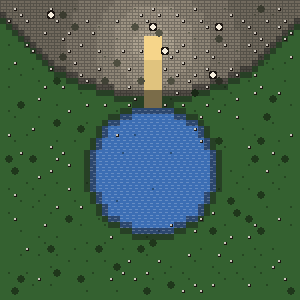
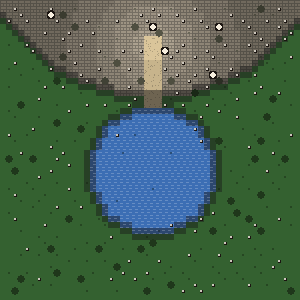
Polish the landing, the result screen and the map's paths
- Step 1: three examples instead of four. The sample map is the first
  example, and its caption quotes that example word for word, so the
  separate "Partir de cet exemple" button goes. The landing grid is now
  form / sample / more, so on a phone the result comes right after the
  form instead of below the options.
- Step 4: one primary action. The retouch button stays a ghost until a
  request is typed.
- Preview: paths are a muted sand with a gravel grain instead of a bright
  yellow bar. The legend has a matching swatch, and the sample image is
  regenerated.
- Zone labels: prompt v1.04 asks for a short GM-facing label in the
  description's language, with accents and no technical terms. The castle
  fixture is cleaned up to match ("Mare au centre de la cour").

Claude-Session: https://claude.ai/code/session_01VCyi5n8g8wBHEssBSmSAeg

Changed region(s): [[0.48, 0.12, 0.54, 0.3]]

diff --git a/internal/server/static/index.html b/internal/server/static/index.html
@@ -84,13 +84,16 @@
 
   .eyebrow{font-size:13px; color:var(--muted); margin:36px 0 12px}
   /* Step 1: the form, and beside it an example of what comes out. */
-  .landing{display:grid; grid-template-columns:minmax(0,1fr) 300px; gap:40px; align-items:start}
+  .landing{display:grid; grid-template-columns:minmax(0,1fr) 300px; gap:0 40px; align-items:start;
+    grid-template-areas:"form sample" "more sample"}
+  .landing-form{grid-area:form} .landing-more{grid-area:more} .sample{grid-area:sample}
   .sample{margin:26px 0 0}
   .sample img{display:block; width:100%; height:auto; image-rendering:pixelated; border:1px solid var(--control);
     outline:1px solid var(--border); outline-offset:4px}
   .sample figcaption{margin-top:14px; font-size:14px; color:var(--muted)}
   .sample figcaption b{display:block; color:var(--ink); font-weight:600; margin-bottom:2px}
-  @media(max-width:860px){ .landing{grid-template-columns:1fr; gap:8px} .sample{max-width:300px} }
+  /* On a phone the result comes right after the form, before the options. */
+  @media(max-width:860px){ .landing{grid-template-columns:1fr; grid-template-areas:"form" "sample" "more"} .sample{max-width:300px} }
   .chips{display:flex; flex-wrap:wrap; gap:8px}
   .chip{background:var(--panel); border:1px solid var(--border); color:var(--ink); border-radius:999px;
     padding:8px 14px; cursor:pointer; text-align:left; font-size:14px;
@@ -155,6 +158,7 @@
     background-size:8px 8px}
   .swatch.waves{background-image:repeating-linear-gradient(0deg, transparent 0 4px, rgba(255,255,255,.3) 4px 5px)}
   .swatch.hatch{background-image:repeating-linear-gradient(45deg, rgba(25,25,25,.35) 0 1px, transparent 1px 4px)}
+  .swatch.gravel{background-image:radial-gradient(rgba(25,25,25,.4) 0.8px, transparent 1.2px); background-size:5px 4px; background-position:1px 1px}
   .legend small{color:var(--muted); font-size:13px; margin-left:auto; font-variant-numeric:tabular-nums}
   .piece-label{position:absolute; margin:4px 0 0 4px; padding:0 5px; border-radius:4px; background:rgba(27,21,17,.8);
     color:var(--ink); font-size:11px; font-weight:600; line-height:18px}
@@ -253,7 +257,7 @@
     <p class="lead">Racontez la scène comme à votre table : le décor, l’ambiance, les éléments clés. Le Cartographe prépare un prompt pour votre assistant IA, puis transforme sa réponse en carte TaleSpire.</p>
 
     <div class="landing">
-      <div class="landing-main">
+      <div class="landing-form">
       <label for="desc">Votre scène</label>
       <textarea id="desc" aria-describedby="descErr" aria-keyshortcuts="Control+Enter Meta+Enter"
         placeholder="Ex. Une cour de château en ruines, une mare au sud, des vestiges au nord…"></textarea>
@@ -266,11 +270,12 @@
       </div>
       <p class="engine" id="engineStatus" role="status" hidden><span id="engineText">Chargement du moteur de génération…</span><progress id="engineBar" max="1" value="0"></progress></p>
       <p class="note"><button class="link" id="pasteDirect">Vous avez déjà la réponse de l’IA ? Collez-la directement</button></p>
+      </div>
 
+      <div class="landing-more">
       <p class="eyebrow" id="examplesLabel">Pas d’idée ? Partez d’un exemple :</p>
       <div class="chips" id="examples" role="group" aria-labelledby="examplesLabel">
-        <button class="chip">Une cour de château en ruines, une mare au sud, des vestiges au nord.</button>
-        <button class="chip">Une clairière de forêt tempérée avec un étang paisible et un chemin de pierre.</button>
+        <button class="chip">Une cour de château en ruines, une mare en son centre, des vestiges au nord.</button>
         <button class="chip">Un désert aride avec des dunes, une oasis cachée et des ruines antiques.</button>
         <button class="chip">Un marécage brumeux avec des huttes sur pilotis et un autel oublié.</button>
       </div>
@@ -321,8 +326,7 @@
       <figure class="sample">
         <img src="/static/exemple-carte.png" width="300" height="300"
           alt="Exemple de carte vue du dessus : une cour herbeuse semée d’arbres et de rochers, une mare ronde en son centre, des ruines au nord reliées par un chemin.">
-        <figcaption><b>Exemple de résultat</b>« Une cour de château en ruines, une mare en son centre, des vestiges au nord. »
-          <button class="link" id="trySample">Partir de cet exemple</button></figcaption>
+        <figcaption><b>Exemple de résultat</b>Ce que donne le premier exemple : «&nbsp;Une cour de château en ruines, une mare en son centre, des vestiges au nord.&nbsp;»</figcaption>
       </figure>
     </div>
   </section>
@@ -426,7 +430,7 @@
       <label for="retouchText" class="sr-only">Changement souhaité</label>
       <textarea id="retouchText" placeholder="Ex. déplace la mare plus au sud, ajoute des arbres morts autour des ruines"></textarea>
       <div class="actions">
-        <button class="primary" id="retouchBtn">Copier la demande pour l’IA</button>
+        <button class="ghost" id="retouchBtn">Copier la demande pour l’IA</button>
         <button class="ghost" id="retouchNext" hidden>J’ai la nouvelle réponse →</button>
       </div>
       <p class="note" id="retouchNote" role="status" aria-live="polite"></p>
@@ -610,11 +614,7 @@ async function preparePrompt(){
 $('genPrompt').onclick = preparePrompt;
 onCtrlEnter($('desc'), preparePrompt);
 $('pasteDirect').onclick = () => setStep(3);
-$('trySample').onclick = () => {
-  $('desc').value = 'Une cour de château en ruines, une mare en son centre, des vestiges au nord.';
-  state.desc = $('desc').value; save(); showDescErr('');
-  $('desc').focus();
-};
+
 
 // Step 2: one obvious action, copy; the prompt itself stays folded away.
 function renderPrompt(){
@@ -970,8 +970,12 @@ function retouchRequest(change){
   return 'Voici la carte actuelle du Cartographe :\n\n```json\n' + JSON.stringify(result.ir) + '\n```\n\n'
     + `Modifiez-la seulement ainsi : « ${change} ». Gardez tout le reste identique, respectez les mêmes règles que pour la carte d’origine, et renvoyez le JSON complet de la carte, sans autre texte.`;
 }
+// Copying the map stays the one primary action on step 4; the retouch button
+// only takes the accent once there is a request to send.
+function updateRetouchButton(){ $('retouchBtn').className = $('retouchText').value.trim() ? 'primary' : 'ghost'; }
+$('retouchText').addEventListener('input', updateRetouchButton);
 function resetRetouch(){
-  $('retouchText').value = ''; $('retouchNote').textContent = '';
+  $('retouchText').value = ''; $('retouchNote').textContent = ''; updateRetouchButton();
   $('retouchNext').hidden = true; $('retouchFallback').hidden = true;
 }
 function updateRetouchMode(){

diff --git a/internal/preview/preview.go b/internal/preview/preview.go
@@ -22,7 +22,7 @@ import (
 // not listed fall back to fallbackRelief.
 var reliefPalette = map[string]color.RGBA{
 	"water":       {60, 110, 180, 255},
-	"base_ground": {214, 186, 120, 255}, // paths: a sand clearly lighter than stone
+	"base_ground": {190, 172, 134, 255}, // paths: a muted sand, lighter than stone, with gravel
 	"ground":      {70, 130, 65, 255},
 	"mountain":    {125, 120, 118, 255},
 	"ruins":       {150, 140, 125, 255},
@@ -31,7 +31,7 @@ var reliefPalette = map[string]color.RGBA{
 // texturedReliefs are told apart by pattern as well as colour, so the map
 // never relies on hue alone (ruins and mountain are close in value once
 // height-shaded, water and ground in luminance): the legend reports it.
-var texturedReliefs = map[string]string{"ruins": "masonry", "water": "waves", "mountain": "hatch"}
+var texturedReliefs = map[string]string{"ruins": "masonry", "water": "waves", "mountain": "hatch", "base_ground": "gravel"}
 
 var (
 	boundaryColor  = color.RGBA{25, 25, 25, 255}
@@ -53,7 +53,7 @@ var reliefOrder = []string{"water", "ground", "base_ground", "mountain", "ruins"
 // Key is a relief key, "other" (a relief outside the palette), "building",
 // "tree", "stone", "misc", "boundary" or "poi"; the UI translates it. Color is
 // the unshaded "#rrggbb"; Pattern names a texture drawn over it ("masonry",
-// "waves", "hatch") or a symbol ("tree", "stone", "dot", "line", "pin").
+// "waves", "hatch", "gravel") or a symbol ("tree", "stone", "dot", "line", "pin").
 // Count is how many are drawn, for the scatter and points of interest.
 type LegendEntry struct {
 	Key     string `json:"key"`
@@ -161,6 +161,8 @@ func Render(doc *ir.IR, mask *spatial.Mask, field *generator.HeightField, opts O
 					waves(img, x, y, scale, blend(base, white, 0.22))
 				case "hatch":
 					hatch(img, x, y, scale, blend(base, boundaryColor, 0.18))
+				case "gravel":
+					gravel(img, x, y, scale, blend(base, boundaryColor, 0.22))
 				}
 			}
 		}
@@ -228,6 +230,18 @@ func hatch(img *image.RGBA, tx, ty, scale int, c color.RGBA) {
 				img.SetRGBA(x0+i, y0+j, c)
 			}
 		}
+	}
+}
+
+// gravel sprinkles a few pebbles over a path tile, at spots hashed from the
+// tile so the grain looks loose rather than gridded, yet stays reproducible.
+func gravel(img *image.RGBA, tx, ty, scale int, c color.RGBA) {
+	x0, y0 := tx*scale, ty*scale
+	h := uint32(tx)*73856093 ^ uint32(ty)*19349663
+	for k := 0; k < 3; k++ {
+		h = h*1103515245 + 12345
+		px, py := int(h>>8)%scale, int(h>>20)%scale
+		img.SetRGBA(x0+px, y0+py, c)
 	}
 }
 

diff --git a/internal/nl/prompt.go b/internal/nl/prompt.go
@@ -9,7 +9,7 @@ import (
 
 // PromptVersion identifies the wording of the generated IR prompt. Bump it when
 // the instruction text changes so users can tell which revision they pasted.
-const PromptVersion = "1.03"
+const PromptVersion = "1.04"
 
 // clarifyingQuestions is the interactive preamble used only by the keyless
 // "generate a prompt" flow (BuildPrompt), where the user has a real back-and-forth
@@ -69,7 +69,7 @@ The grid is x in [0, width) and y in [0, length). x grows to the east, y grows t
         { "prop": string, "position": {"x": int, "y": int} },
         { "prop": string, "position": "scattered", "count": int }
       ],
-      "description": string               // optional, short
+      "description": string               // optional: a short label the GM reads, in the description's language with its accents (e.g. "Mare au centre de la cour"), no technical terms
     }
   ],
   "connections": [ { "from": string, "to": string, "type": string, "width": int } ], // optional

diff --git a/internal/nl/prompt_test.go b/internal/nl/prompt_test.go
@@ -23,8 +23,8 @@ func TestBuildPromptAsksClarifyingQuestionsAndVersion(t *testing.T) {
 			t.Errorf("BuildPrompt missing %q", want)
 		}
 	}
-	if PromptVersion != "1.03" {
-		t.Errorf("PromptVersion = %q, want 1.03", PromptVersion)
+	if PromptVersion != "1.04" {
+		t.Errorf("PromptVersion = %q, want 1.04", PromptVersion)
 	}
 }
 

diff --git a/CLAUDE.md b/CLAUDE.md
@@ -248,7 +248,10 @@ ANTHROPIC_API_KEY=... go run ./cmd/server
   if told to). This is added only in the interactive prompt — `systemPrompt(false)`
   used by the automated `/api/describe` path stays single-shot JSON, since its
   reply must satisfy the validate/retry loop. `nl.PromptVersion` carries the
-  wording revision and is printed at the top of the generated prompt.
+  wording revision and is printed at the top of the generated prompt. Since
+  v1.04 a zone's `description` is asked for as a short label the GM reads, in
+  the description's language with its accents and no technical terms ("Mare au
+  centre de la cour", not "pond (zone imbriquee)"), since the UI shows it.
 - **The paste-back reads the AI's whole reply.** Visitors paste ChatGPT's answer
   as-is (French prose, a ```json fence). `/api/generate` therefore also takes
   `{"text": ...}` and extracts the object with `nl.ExtractJSON`, the same reader
@@ -267,8 +270,9 @@ ANTHROPIC_API_KEY=... go run ./cmd/server
   `.impeccable/critique/` keeps the critique snapshots and their scores.
 - **The preview shows what the slab contains.** Every placed point of interest
   is drawn, scattered ones included (`HeightField.POIs`), as a light pin with a
-  dark ring (value and shape, not hue); ruins carry a masonry texture and paths a
-  distinct sand, since height shading brings stone colours together. The
+  dark ring (value and shape, not hue); ruins carry a masonry texture and paths
+  (`base_ground`) a muted sand with a gravel grain, since height shading brings
+  stone colours together (a saturated sand read as a bright bar across the map). The
   scatter is drawn too (`HeightField.PropAt`, one prop per tile): trees as dark
   canopies wider than their tile (trees are never side by side, so they are
   painted after all the ground), rocks as light stones with a shadow, bushes and
@@ -286,7 +290,9 @@ ANTHROPIC_API_KEY=... go run ./cmd/server
 - **Retouching stays plain language.** Step 4's "Retoucher la carte" turns a
   request ("déplace la mare plus au sud") into a message carrying the current IR
   for the visitor's AI, whose new reply is pasted back; with a key (desktop) it
-  calls `/api/adjust` directly. Raw JSON editing is the secondary path.
+  calls `/api/adjust` directly. Raw JSON editing is the secondary path. Step 4
+  keeps one primary action, copying the code: the retouch button is a ghost
+  until a request is typed, then takes the primary style.
 - **The engine's first download is visible.** `web/cartographe.js` tees the
   `app.wasm` stream to count bytes and emits `cartographe:progress/ready/failed`;
   `build-web.sh` writes the uncompressed size into it (Cloudflare serves the
@@ -299,8 +305,12 @@ ANTHROPIC_API_KEY=... go run ./cmd/server
   `TestPromptIsHeadPlusSceneLines` holds the engine to that contract and the
   browser journey checks the early prompt is identical to the engine's.
 - **The landing shows a result before anything is asked.** Step 1 carries the
-  castle example's real preview (`static/exemple-carte.png`, 300 px, 7.5 kB)
-  with "Partir de cet exemple". `TestSampleMapIsCurrent` fails when it no
+  castle example's real preview (`static/exemple-carte.png`, 300 px, 7.5 kB).
+  The sample *is* the first of three example chips, and its caption quotes that
+  chip word for word, so there is no separate "start from this" button. The
+  landing grid has three areas — form, sample, more (chips, options) — so on a
+  phone the result comes right after the form, before the options.
+  `TestSampleMapIsCurrent` fails when it no
   longer matches what the generator draws; after a deliberate preview change,
   run `go test ./internal/server -run TestSampleMapIsCurrent -update`.
 - **Runs without a key.** With no Anthropic credential the server still serves
